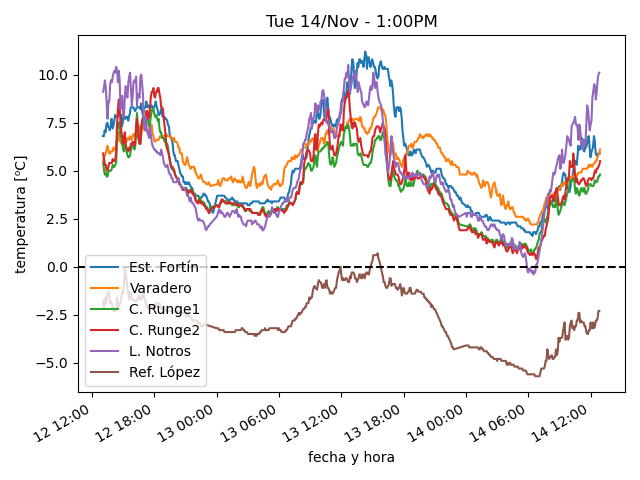
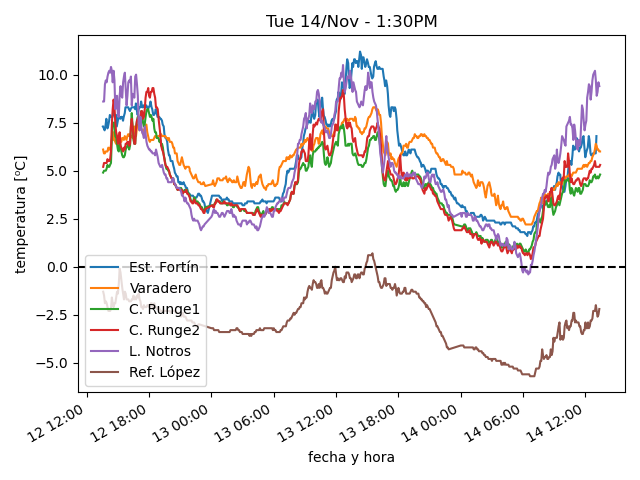
actualiza datos

diff --git a/estaciones/estacion1.html b/estaciones/estacion1.html
@@ -18,32 +18,32 @@
     </tr>
     <tr>
      <td class="stats_data">
-      12:53PM
+      1:03PM
      </td>
     </tr>
     <tr>
      <td class="stats_data">
-      5.9⁰C
+      6.8⁰C
      </td>
     </tr>
     <tr>
      <td class="stats_data">
-      -2.9⁰C
+      -2.6⁰C
      </td>
     </tr>
     <tr>
      <td class="stats_data">
-      53.0%
+      51.0%
      </td>
     </tr>
     <tr>
      <td class="stats_data">
-      1014.56hPa
+      1014.22hPa
      </td>
     </tr>
     <tr>
      <td class="stats_data">
-      18.6/32.2 km/hr W
+      21.6/29.8 km/hr WNW
      </td>
     </tr>
     <tr>
@@ -53,12 +53,12 @@
     </tr>
     <tr>
      <td class="stats_data">
-      3.3
+      6.7
      </td>
     </tr>
     <tr>
      <td class="stats_data">
-      399.0 W/m²
+      1076.0 W/m²
      </td>
     </tr>
    </tbody>

diff --git a/estaciones/estacion2.html b/estaciones/estacion2.html
@@ -18,32 +18,32 @@
     </tr>
     <tr>
      <td class="stats_data">
-      12:54PM
+      1:24PM
      </td>
     </tr>
     <tr>
      <td class="stats_data">
-      6.1⁰C
+      6.0⁰C
      </td>
     </tr>
     <tr>
      <td class="stats_data">
-      0.3⁰C
+      0.5⁰C
      </td>
     </tr>
     <tr>
      <td class="stats_data">
-      66.5%
+      67.8%
      </td>
     </tr>
     <tr>
      <td class="stats_data">
-      1019.24hPa
+      1019.13hPa
      </td>
     </tr>
     <tr>
      <td class="stats_data">
-      29.4/34.3 km/hr NW
+      29.2/34.5 km/hr NW
      </td>
     </tr>
     <tr>
@@ -53,12 +53,12 @@
     </tr>
     <tr>
      <td class="stats_data">
-      11.0
+      4.0
      </td>
     </tr>
     <tr>
      <td class="stats_data">
-      1134.8 W/m²
+      475.4 W/m²
      </td>
     </tr>
    </tbody>

diff --git a/estaciones/estacion6.html b/estaciones/estacion6.html
@@ -18,32 +18,32 @@
     </tr>
     <tr>
      <td class="stats_data">
-      12:50PM
+      1:20PM
      </td>
     </tr>
     <tr>
      <td class="stats_data">
-      -2.3⁰C
+      -2.2⁰C
      </td>
     </tr>
     <tr>
      <td class="stats_data">
-      -5.0⁰C
+      -4.7⁰C
      </td>
     </tr>
     <tr>
      <td class="stats_data">
-      82.0%
+      83.0%
      </td>
     </tr>
     <tr>
      <td class="stats_data">
-      1017.1hPa
+      1016.97hPa
      </td>
     </tr>
     <tr>
      <td class="stats_data">
-      6.4/14.5 km/hr W
+      6.4/19.3 km/hr S
      </td>
     </tr>
     <tr>
@@ -58,7 +58,7 @@
     </tr>
     <tr>
      <td class="stats_data">
-      907.0 W/m²
+      899.0 W/m²
      </td>
     </tr>
    </tbody>

diff --git a/estaciones/estacion4.html b/estaciones/estacion4.html
@@ -18,12 +18,12 @@
     </tr>
     <tr>
      <td class="stats_data">
-      12:54PM
+      1:24PM
      </td>
     </tr>
     <tr>
      <td class="stats_data">
-      5.5⁰C
+      5.3⁰C
      </td>
     </tr>
     <tr>
@@ -33,7 +33,7 @@
     </tr>
     <tr>
      <td class="stats_data">
-      57.2%
+      58.0%
      </td>
     </tr>
     <tr>
@@ -43,7 +43,7 @@
     </tr>
     <tr>
      <td class="stats_data">
-      5.3/7.5 km/hr SSW
+      4.9/8.0 km/hr SSW
      </td>
     </tr>
     <tr>
@@ -58,7 +58,7 @@
     </tr>
     <tr>
      <td class="stats_data">
-      289.9 W/m²
+      240.9 W/m²
      </td>
     </tr>
    </tbody>

diff --git a/estaciones/estacion3.html b/estaciones/estacion3.html
@@ -18,7 +18,7 @@
     </tr>
     <tr>
      <td class="stats_data">
-      12:54PM
+      1:24PM
      </td>
     </tr>
     <tr>
@@ -33,17 +33,17 @@
     </tr>
     <tr>
      <td class="stats_data">
-      62.5%
+      62.8%
      </td>
     </tr>
     <tr>
      <td class="stats_data">
-      1003.93hPa
+      1003.83hPa
      </td>
     </tr>
     <tr>
      <td class="stats_data">
-      14.5/20.6 km/hr NW
+      11.1/16.8 km/hr WNW
      </td>
     </tr>
     <tr>
@@ -58,7 +58,7 @@
     </tr>
     <tr>
      <td class="stats_data">
-      342.2 W/m²
+      285.4 W/m²
      </td>
     </tr>
    </tbody>

diff --git a/estaciones/estacion5.html b/estaciones/estacion5.html
@@ -18,27 +18,27 @@
     </tr>
     <tr>
      <td class="stats_data">
-      12:50PM
+      1:20PM
      </td>
     </tr>
     <tr>
      <td class="stats_data">
-      10.1⁰C
+      9.4⁰C
      </td>
     </tr>
     <tr>
      <td class="stats_data">
-      1.6⁰C
+      0.7⁰C
      </td>
     </tr>
     <tr>
      <td class="stats_data">
-      56.0%
+      54.0%
      </td>
     </tr>
     <tr>
      <td class="stats_data">
-      1014.63hPa
+      1014.7hPa
      </td>
     </tr>
     <tr>
